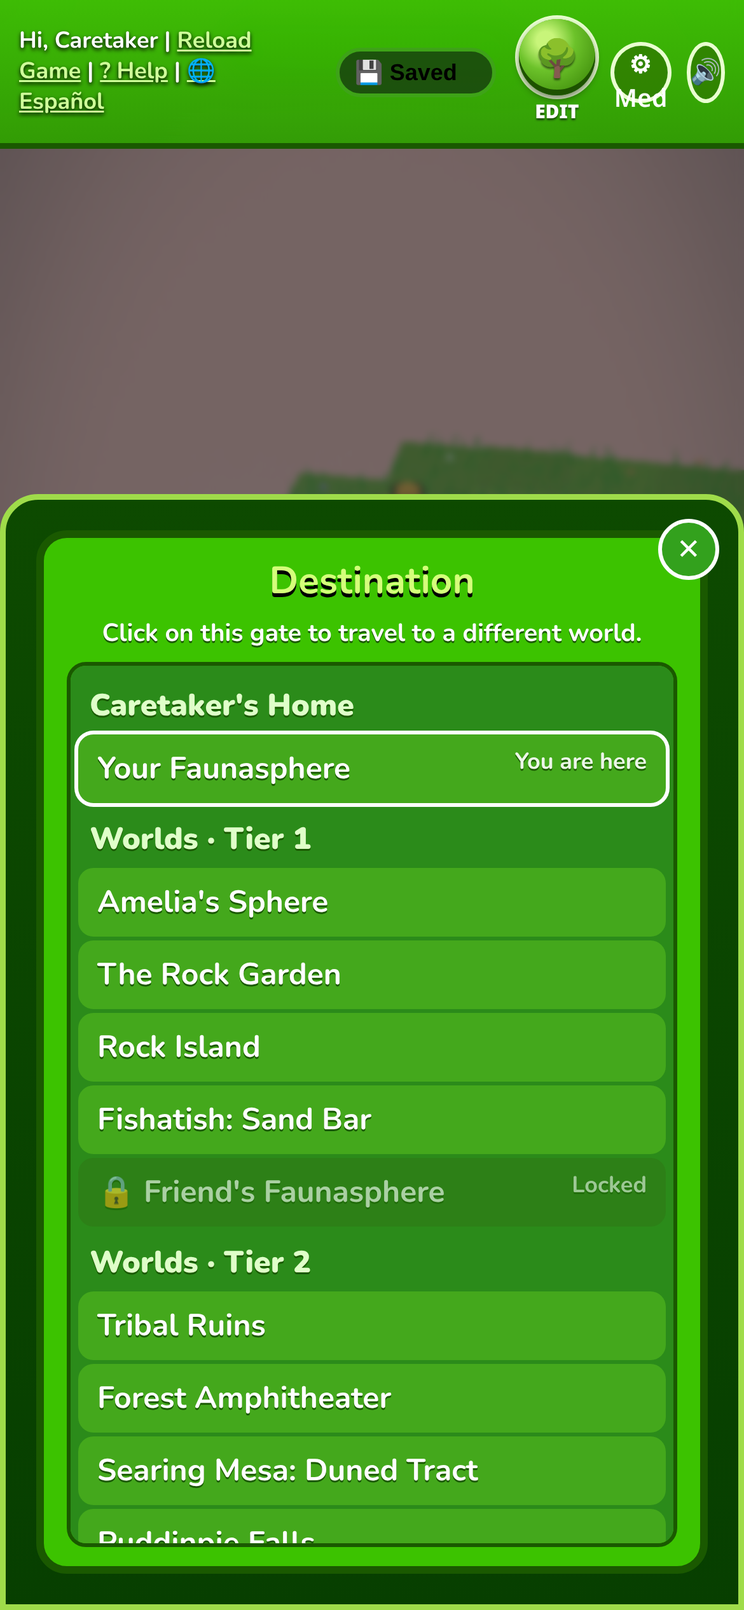
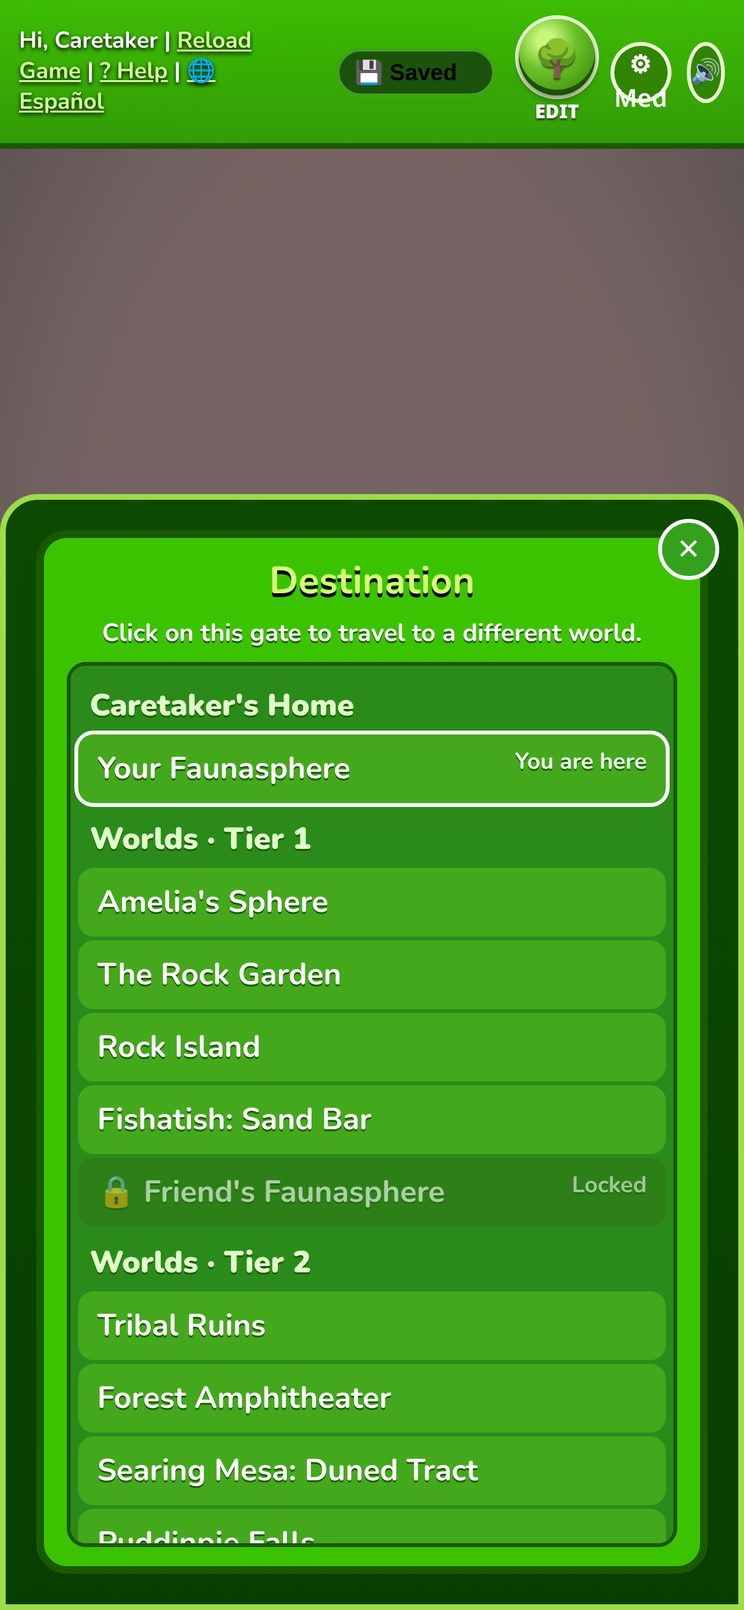
v5: Edit Mode (direct manipulation), 3x home + fences, Tricks/Home HUD, full mobile retest

Changed region(s): [[0.4, 0.2496, 1.0, 0.3432]]

diff --git a/content22.js b/content22.js
@@ -1,0 +1,71 @@
+// v5: direct-manipulation Edit Mode at home (select, drag with snapping ghost, long-press pick-up, pinch/pan camera lock, toolbar, undo x10, clear all, box multi-select)
+(function(){const t=k=>(window.FS&&FS.t)?FS.t(k):k;const A={on:false,sel:[],undo:[],box:false,move:false,ptr:new Map(),g:null};window.FSarr=A;
+const cv=document.getElementById('cv'),stage=document.getElementById('stage');
+const D=()=>S.home.decor,Z0=()=>zs('home');
+const rel=e=>{const r=cv.getBoundingClientRect();return[e.clientX-r.left,e.clientY-r.top]};
+const tileOk=(i,j)=>{const s=Z0();return !!(s.tiles[i]&&s.tiles[i][j])&&!s.objs.some(o=>o.type!=='decor'&&o.i===i&&o.j===j)};
+const at=(i,j)=>D().map((d,k)=>[d,k]).filter(([d])=>d.i===i&&d.j===j).sort((a,b)=>(b[0].h|0)-(a[0].h|0)).map(x=>x[1]);
+const pick=(px,py)=>{const[i,j]=screenToTile(px,py);let l=at(i,j);if(l.length)return l[0];// small tolerance for tall items
+ for(const[a,b]of[[0,-1],[-1,0],[-1,-1]]){l=at(i+a,j+b);if(l.length)return l[0]}return null};
+const snap=()=>JSON.stringify({d:D(),inv:S.player.inv});
+const pushU=()=>{A.undo.push(snap());if(A.undo.length>10)A.undo.shift()};
+const commit=()=>{try{syncHomeDecor();save()}catch(e){console.warn(e)}};
+const undo=()=>{const u=A.undo.pop();if(!u){toast(t('Nothing to undo.'));return}try{const o=JSON.parse(u);S.home.decor.length=0;o.d.forEach(x=>S.home.decor.push(x));S.player.inv=o.inv;A.sel=[];commit();toast(t('Undone.'))}catch(e){console.warn(e)}};
+// compute target placement for moving selection by (di,dj)
+const plan=(di,dj)=>{const mv=new Set(A.sel),out=[];const per={};
+ for(const k of [...A.sel].sort((a,b)=>(D()[a].h|0)-(D()[b].h|0))){const d=D()[k];if(!d)continue;const i=d.i+di,j=d.j+dj,key=i+','+j;
+  let bad=!tileOk(i,j);const others=at(i,j).filter(x=>!mv.has(x)).map(x=>D()[x]);if(others.some(o=>o.item!=='d_block'))bad=true;
+  const base=others.length;per[key]=per[key]||0;const h=base+per[key];if(h>6)bad=true;per[key]++;
+  out.push({k,item:d.item,i,j,rot:d.rot|0,h,col:d.col,v:d.v,bad})}return out};
+const ghosts=p=>{rt.ghosts=p.map(({item,i,j,rot,h,col,v,bad})=>({item,i,j,rot,h,col,v,bad}))};
+const applyPlan=p=>{if(!p.length)return false;if(p.some(x=>x.bad)){toast(t("Can't place there."));return false}pushU();p.forEach(x=>{const d=D()[x.k];d.i=x.i;d.j=x.j;d.h=x.h});commit();try{Sound.sfx('pop')}catch(e){}return true};
+// ---------- UI ----------
+const css=document.createElement('style');css.textContent='#arrbar{position:fixed;left:50%;transform:translateX(-50%);top:96px;z-index:70;display:none;gap:4px;background:#1d4a5ecc;padding:5px;border-radius:14px;box-shadow:0 2px 8px #0007;max-width:98vw;flex-wrap:nowrap;white-space:nowrap;justify-content:center}#arrbar button,#seltb button{font:700 11px inherit;font-family:inherit;border:2px solid #fff;border-radius:10px;background:#3d8b5a;color:#fff;padding:4px 5px;min-width:30px;cursor:pointer}#arrbar button.on{background:#e2a23b}#seltb{position:fixed;z-index:71;display:none;gap:3px;background:#000a;padding:4px;border-radius:12px;flex-wrap:wrap;justify-content:center;max-width:300px}#seltb button{font-size:13px;padding:4px 6px}body.editing #microbox,body.editing #rarepop{display:none!important}#arrbox{position:fixed;z-index:69;border:2px dashed #ffe14d;background:#ffe14d22;pointer-events:none;display:none}';document.head.appendChild(css);
+const bar=document.createElement('div');bar.id='arrbar';document.body.appendChild(bar);const tb=document.createElement('div');tb.id='seltb';document.body.appendChild(tb);const bx=document.createElement('div');bx.id='arrbox';document.body.appendChild(bx);
+const btn=(p,lab,fn,id)=>{const b=document.createElement('button');b.textContent=lab;if(id)b.id=id;b.onclick=e=>{e.stopPropagation();try{fn()}catch(er){console.warn(er)}renderTB()};p.appendChild(b);return b};
+const drawBar=()=>{bar.innerHTML='';btn(bar,'↶ '+t('Undo'),undo,'arrundo');const bb=btn(bar,'⬚ '+t('Box'),()=>{A.box=!A.box;toast(A.box?t('Box select: drag over items to select a group.'):t('Box select off.'));drawBar()},'arrbox_b');if(A.box)bb.className='on';
+ btn(bar,'➕ '+t('Place'),()=>ui('decor'),'arrplace');btn(bar,'☰',()=>ui('edithome'),'arrmenu');btn(bar,'🗑 '+t('Clear'),()=>{if(!D().length)return;if(!confirm(t('Put ALL placed items back into your inventory?')))return;pushU();while(D().length){const d=D().pop();addItem(d.item)}A.sel=[];commit();toast(t('Everything is back in your inventory.'))},'arrclear');btn(bar,'✔ '+t('Done'),()=>setOn(false),'arrdone')};
+const selAct=fn=>{if(!A.sel.length)return;pushU();A.sel.forEach(k=>{const d=D()[k];if(d)fn(d)});commit()};
+const BC=()=>window.BCOL||['#c8a26a','#9aa3ad','#e07a5f','#81b29a','#f2cc8f','#6d6875','#f4f1de','#3d405b'];
+function renderTB(){tb.innerHTML='';if(!A.on||!A.sel.length||A.g&&A.g.drag){tb.style.display='none';return}const one=A.sel.length===1?D()[A.sel[0]]:null;
+ btn(tb,'✥ '+t('Move'),()=>{A.move=true;toast(t('Tap a tile to move it there, or drag it.'))},'tbmove');btn(tb,'↻',()=>selAct(d=>d.rot=((d.rot|0)+1)%4),'tbrot');
+ if(A.sel.some(k=>D()[k]&&D()[k].item.includes('fence')))btn(tb,(one&&(one.rot|0)%2)?'↕':'↔',()=>selAct(d=>{if(d.item.includes('fence'))d.rot=((d.rot|0)%2)?0:1}),'tborient');
+ btn(tb,'▲',()=>selAct(d=>d.h=Math.min(6,(d.h|0)+1)),'tbup');btn(tb,'▼',()=>selAct(d=>d.h=Math.max(0,(d.h|0)-1)),'tbdown');
+ btn(tb,'🎨',()=>selAct(d=>{if(d.item==='d_block'){const c=BC();d.col=c[(c.indexOf(d.col)+1)%c.length]}else d.v=((d.v|0)+1)%8}),'tbcol');
+ if(one&&S.player.inv[one.item]>0)btn(tb,'⧉ '+t('Copy'),()=>{const s=[[1,0],[0,1],[-1,0],[0,-1],[1,1],[-1,-1],[1,-1],[-1,1]];for(const[a,b]of s){const i=one.i+a,j=one.j+b;if(tileOk(i,j)&&!at(i,j).length){pushU();S.player.inv[one.item]--;if(!S.player.inv[one.item])delete S.player.inv[one.item];D().push({...one,i,j,h:0});A.sel=[D().length-1];commit();return}}toast(t('No free tile next to it.'))},'tbdup');
+ btn(tb,'📦 '+t('Store'),()=>{pushU();[...A.sel].sort((a,b)=>b-a).forEach(k=>{const d=D().splice(k,1)[0];if(d)addItem(d.item)});A.sel=[];commit()},'tbstore');btn(tb,'✔',()=>{A.sel=[];A.move=false},'tbok');
+ tb.style.display='flex';posTB()}
+function posTB(){try{if(tb.style.display==='none'||!A.sel.length)return;const d=D()[A.sel[0]];if(!d)return;const r=cv.getBoundingClientRect();const p=projTile(d.i,d.j,(d.h|0)*.3+.9);const w=tb.offsetWidth,h=tb.offsetHeight;let x=r.left+p[0]-w/2,y=r.top+p[1]-h-8;x=Math.max(4,Math.min(innerWidth-w-4,x));const ab=bar.getBoundingClientRect().bottom+6;if(y<ab)y=r.top+p[1]+40;y=Math.max(ab,Math.min(innerHeight-h-230,y));tb.style.left=x+'px';tb.style.top=y+'px'}catch(e){}}
+function setOn(v){A.on=v;A.sel=[];A.move=false;A.box=false;A.g=null;rt.ghosts=null;rt.sel=null;bar.style.display=v?'flex':'none';document.body.classList.toggle('editing',v);window.editCam=v?{x:0,z:0,zoom:1}:null;if(v){drawBar();toast(t('Edit mode: tap an item to select, drag to move, long-press to pick up. Pinch to zoom.'))}renderTB()}
+A.setOn=setOn;
+setInterval(()=>{try{if(A.on&&S.zone!=='home')setOn(false);rt.sel=A.on?A.sel.map(k=>D()[k]).filter(Boolean).map(d=>({i:d.i,j:d.j,h:d.h|0})):null;if(A.on){A.sel=A.sel.filter(k=>D()[k]);posTB()}}catch(e){}},120);
+// EDIT button at home toggles edit mode (menu still reachable from ☰)
+const ed=document.getElementById('edit');if(ed)ed.addEventListener('click',e=>{try{if(S.zone==='home'&&!rt.decor&&rt.paint==null){e.stopImmediatePropagation();e.preventDefault();M.classList.add('hidden');setOn(!A.on)}}catch(er){}},true);
+// ---------- gestures ----------
+const mine=e=>A.on&&!rt.decor&&rt.paint==null&&(e.target===cv||(stage&&stage.contains(e.target)&&e.target.tagName==='CANVAS'));
+const W=(px,py)=>screenToWorld(px,py);
+addEventListener('pointerdown',e=>{if(!mine(e))return;e.stopImmediatePropagation();e.preventDefault();try{cv.setPointerCapture&&cv.setPointerCapture(e.pointerId)}catch(_){}
+ const[px,py]=rel(e);A.ptr.set(e.pointerId,{x:px,y:py});clearTimeout(A.lp);
+ if(A.ptr.size===2){const[a,b]=[...A.ptr.values()];A.g={pinch:1,d0:Math.hypot(a.x-b.x,a.y-b.y)||1,z0:window.editCam.zoom,mx:(a.x+b.x)/2,my:(a.y+b.y)/2};rt.ghosts=null;return}
+ if(A.ptr.size>2)return;const hit=pick(px,py);const[ti,tj]=screenToTile(px,py);A.g={x:px,y:py,lx:px,ly:py,t:Date.now(),hit,ti,tj,moved:false,drag:false,pan:false,boxs:A.box&&hit==null||A.box};
+ if(hit!=null&&!A.box)A.lp=setTimeout(()=>{if(A.g&&!A.g.moved&&!A.g.pinch){if(!A.sel.includes(hit))A.sel=[hit];A.g.drag=true;try{navigator.vibrate&&navigator.vibrate(25)}catch(_){}ghosts(plan(0,0));renderTB()}},450)},true);
+addEventListener('pointermove',e=>{if(!A.on||!A.ptr.has(e.pointerId))return;e.stopImmediatePropagation();e.preventDefault();const[px,py]=rel(e);A.ptr.set(e.pointerId,{x:px,y:py});const g=A.g;if(!g)return;
+ try{if(g.pinch){if(A.ptr.size<2)return;const[a,b]=[...A.ptr.values()];const d=Math.hypot(a.x-b.x,a.y-b.y);window.editCam.zoom=Math.max(.6,Math.min(3,g.z0*d/g.d0));const mx=(a.x+b.x)/2,my=(a.y+b.y)/2;const w0=W(g.mx,g.my),w1=W(mx,my);if(w0&&w1){window.editCam.x+=w0[0]-w1[0];window.editCam.z+=w0[1]-w1[1]}g.mx=mx;g.my=my;clampCam();return}
+ if(!g.moved&&Math.hypot(px-g.x,py-g.y)>9){g.moved=true;clearTimeout(A.lp);if(g.boxs){g.box=true}else if(g.hit!=null&&A.sel.includes(g.hit)){g.drag=true;renderTB()}else g.pan=true}
+ if(g.drag){const[i,j]=screenToTile(px,py);ghosts(plan(i-g.ti,j-g.tj))}
+ else if(g.box){bx.style.display='block';const r=cv.getBoundingClientRect();bx.style.left=r.left+Math.min(px,g.x)+'px';bx.style.top=r.top+Math.min(py,g.y)+'px';bx.style.width=Math.abs(px-g.x)+'px';bx.style.height=Math.abs(py-g.y)+'px'}
+ else if(g.pan){const w0=W(g.lx,g.ly),w1=W(px,py);if(w0&&w1){window.editCam.x+=w0[0]-w1[0];window.editCam.z+=w0[1]-w1[1];clampCam()}}g.lx=px;g.ly=py}catch(er){console.warn(er)}},true);
+function clampCam(){const c=window.editCam,m=8;c.x=Math.max(-m,Math.min(m,c.x));c.z=Math.max(-m,Math.min(m,c.z))}
+const up=e=>{if(!A.ptr.has(e.pointerId))return;e.stopImmediatePropagation();A.ptr.delete(e.pointerId);clearTimeout(A.lp);const g=A.g;if(!g)return;if(g.pinch){if(!A.ptr.size)A.g=null;return}
+ try{const px=g.lx,py=g.ly;
+ if(g.drag){const[i,j]=screenToTile(px,py);applyPlan(plan(i-g.ti,j-g.tj))}
+ else if(g.box){bx.style.display='none';const[a,b]=[screenToTile(g.x,g.y),screenToTile(px,py)];const i0=Math.min(a[0],b[0]),i1=Math.max(a[0],b[0]),j0=Math.min(a[1],b[1]),j1=Math.max(a[1],b[1]);
+  const r=cv.getBoundingClientRect(),x0=Math.min(g.x,px),x1=Math.max(g.x,px),y0=Math.min(g.y,py),y1=Math.max(g.y,py);A.sel=D().map((d,k)=>[d,k]).filter(([d])=>{const p=projTile(d.i,d.j,(d.h|0)*.3);return p[0]>=x0&&p[0]<=x1&&p[1]>=y0&&p[1]<=y1}).map(x=>x[1]);toast(A.sel.length+' '+t('selected'))}
+ else if(!g.moved&&!g.pan){// tap
+  if(A.move&&A.sel.length){const[i,j]=screenToTile(px,py);const d=D()[A.sel[0]];if(applyPlan(plan(i-d.i,j-d.j)))A.move=false}
+  else if(g.hit!=null){if(A.box){const x=A.sel.indexOf(g.hit);if(x<0)A.sel.push(g.hit);else A.sel.splice(x,1)}else A.sel=A.sel.length===1&&A.sel[0]===g.hit?[]:[g.hit];try{Sound.sfx('click')}catch(_){}}
+  else A.sel=[]}
+ }catch(er){console.warn(er)}rt.ghosts=null;A.g=null;renderTB()};
+addEventListener('pointerup',up,true);addEventListener('pointercancel',up,true);
+['click','touchstart','touchmove','wheel'].forEach(ev=>addEventListener(ev,e=>{if(mine(e)){e.stopImmediatePropagation();if(ev!=='touchstart'&&ev!=='click'||ev==='click')try{e.preventDefault()}catch(_){}if(ev==='wheel'){window.editCam.zoom=Math.max(.6,Math.min(3,window.editCam.zoom*(e.deltaY<0?1.1:.9)))}}},{capture:true,passive:false}));
+})();

diff --git a/gl.js b/gl.js
@@ -228,7 +228,10 @@ B.decor=o=>{const it=o.item||'',g=new THREE.Group();
  if(vc!=null&&it!=='d_block'){const c=new THREE.Color(vc);g.traverse(m=>{if(m.isMesh&&m.material&&m.material.color&&!m.material.emissive?.getHex?.()){m.material=m.material.clone();m.material.color.lerp(c,.65)}})}
  const out=new THREE.Group();out.add(g);g.position.y=(o.h|0)*.3;out.rotation.y=((o.rot|0)%4)*Math.PI/2;return out}}
 // v4.22 tile paint layer (S.home.paint {"i,j":"#hex"}): thin slabs, rebuilt only when the paint signature changes
-let paintG=null,paintSig='';let ghostG=null,ghostK='';function ghostFrame(){try{const gh=typeof rt!=='undefined'&&rt.ghost&&S.zone==='home'?rt.ghost:null;const k=gh?JSON.stringify(gh):'';if(k===ghostK)return;ghostK=k;if(ghostG){scene.remove(ghostG);ghostG=null}if(!gh)return;ghostG=B.decor({item:gh.item,rot:gh.rot});ghostG.traverse(m=>{if(m.isMesh){m.material=m.material.clone();m.material.transparent=true;m.material.opacity=.45;m.material.depthWrite=false;m.raycast=()=>{}}});ghostG.position.copy(W2(gh.i,gh.j));scene.add(ghostG)}catch(e){}}
+let paintG=null,paintSig='';let ghostG=null,ghostK='',selG=null,selK='';const selM=new THREE.LineBasicMaterial({color:0xffe14d,depthTest:false,transparent:true});const selGeo=new THREE.EdgesGeometry(new THREE.BoxGeometry(.98,.5,.98));
+function ghostFrame(){try{const on=typeof rt!=='undefined'&&S.zone==='home';const L=on?(rt.ghosts&&rt.ghosts.length?rt.ghosts:(rt.ghost?[rt.ghost]:[])):[];const k=JSON.stringify(L);if(k!==ghostK){ghostK=k;if(ghostG){scene.remove(ghostG);ghostG=null}if(L.length){ghostG=new THREE.Group();for(const gh of L){const m0=B.decor({item:gh.item,rot:gh.rot,h:gh.h,col:gh.col,v:gh.v});m0.traverse(m=>{if(m.isMesh){m.material=m.material.clone();m.material.transparent=true;m.material.opacity=gh.bad?.6:.45;m.material.depthWrite=false;if(gh.bad&&m.material.color){m.material.color.set(0xff3030);if(m.material.emissive)m.material.emissive.set(0x550000)}m.raycast=()=>{}}});m0.position.add(W2(gh.i,gh.j));ghostG.add(m0)}scene.add(ghostG)}}
+ const S2=on&&rt.sel?rt.sel:[];const k2=JSON.stringify(S2);if(k2!==selK){selK=k2;if(selG){scene.remove(selG);selG=null}if(S2.length){selG=new THREE.Group();for(const q of S2){const l=new THREE.LineSegments(selGeo,selM);l.renderOrder=999;l.position.copy(W2(q.i,q.j));l.position.y=(q.h|0)*.3+.25;selG.add(l)}scene.add(selG)}}
+ if(selG)selM.opacity=.6+.4*Math.sin(performance.now()/180)}catch(e){}}
 function paintFrame(){try{const on=typeof S!=='undefined'&&S.zone==='home'&&builtZone==='home';const P=on&&S.home&&S.home.paint||{};const sig=on?JSON.stringify(P)+C0:'';if(sig===paintSig)return;paintSig=sig;if(paintG){scene.remove(paintG);paintG.traverse(m=>{if(m.material)m.material.dispose()})}paintG=new THREE.Group();scene.add(paintG);const mats={};
  for(const k in P){const[i,j]=k.split(',').map(Number);const c=P[k];const m=mats[c]||(mats[c]=std(new THREE.Color(c).getHex(),{roughness:.85}));const sl=mesh(BOX,m,[.98,.02,.98],[0,0,0]);sl.position.copy(W2(i,j));sl.position.y=.012;paintG.add(sl)}}catch(e){}}
 
@@ -435,10 +438,10 @@ let W=1,H=1;function size(){const r=stage.getBoundingClientRect();W=Math.max(1,r
 addEventListener('resize',size);size();
 const fpos=new THREE.Vector3();
 function updCamera(dt,t){const n=N0||9,asp=W/H,fov=camera.fov*Math.PI/180;
- const fit=(n*.55)/Math.tan(fov/2)/Math.min(1.25,Math.max(.55,asp));let dist=fit/(cam.zoom||1);const portrait=asp<.8;if(portrait)dist=Math.min(dist,n*(typeof S!=="undefined"&&S.zone==="home"?2.9:2.1)/(cam.zoom||1));
- const follow=portrait?1:clamp((cam.zoom-1)/.8,0,1);const tgt=new THREE.Vector3().lerpVectors(new THREE.Vector3(0,0,0),fpos,follow);tgt.y=.15;
+ const fit=(n*.55)/Math.tan(fov/2)/Math.min(1.25,Math.max(.55,asp));let dist=fit/(cam.zoom||1);const portrait=asp<.8;if(portrait)dist=Math.min(dist,n*(typeof S!=="undefined"&&S.zone==="home"?4.4:2.1)/(cam.zoom||1));
+ const follow=portrait?1:clamp((cam.zoom-1)/.8,0,1);const tgt=new THREE.Vector3().lerpVectors(new THREE.Vector3(0,0,0),fpos,follow);tgt.y=.15;const EC=G.editCam;if(EC&&S.zone==='home'){tgt.set(EC.x,.15,EC.z);dist=n*3.8/(EC.zoom||1);if(camS.dist!=null){camS.dist=dist;camS.t.copy(tgt)}}
  if(camS.dist===null){camS.dist=dist;camS.t.copy(tgt)}camS.dist+=(dist-camS.dist)*.08;camS.t.lerp(tgt,.06);
- let yaw=camS.yaw,pitch=camS.pitch,d=camS.dist;if(titleOn||!fa()){yaw+=t*.12;d*=1.15;pitch=.55}
+ let yaw=camS.yaw,pitch=camS.pitch,d=camS.dist;if((titleOn||!fa())&&!(G.editCam&&S.zone==="home")){yaw+=t*.12;d*=1.15;pitch=.55}
  const k=Math.cos(pitch)*d;camera.position.set(camS.t.x+Math.sin(yaw)*k,camS.t.y+Math.sin(pitch)*d,camS.t.z+Math.cos(yaw)*k);
  if(rt.shake>.3){camera.position.x+=(Math.random()-.5)*rt.shake*.01;camera.position.y+=(Math.random()-.5)*rt.shake*.01}camera.lookAt(camS.t)}
 // drag-rotate (single pointer)
@@ -449,6 +452,7 @@ addEventListener('pointerup',()=>dragS=null);cv.addEventListener('pointercancel'
 const ray=new THREE.Raycaster(),ndc=new THREE.Vector2(),plane=new THREE.Plane(new THREE.Vector3(0,1,0),0);
 function setRay(px,py){ndc.set(px/W*2-1,-(py/H)*2+1);ray.setFromCamera(ndc,camera)}
 G.screenToTile=(px,py)=>{setRay(px,py);const p=new THREE.Vector3();if(!ray.ray.intersectPlane(plane,p))return[-1,-1];return[Math.round(p.x+C0),Math.round(p.z+C0)]};
+G.screenToWorld=(px,py)=>{setRay(px,py);const p=new THREE.Vector3();if(!ray.ray.intersectPlane(plane,p))return null;return[p.x+C0,p.z+C0]};G.projTile=(i,j,y)=>{const v=W2(i,j);v.y=y||0;return proj(v)};G.camYaw=()=>camS.yaw;G._camDbg=()=>[camera.position.toArray().map(x=>+x.toFixed(2)),camS.t.toArray().map(x=>+x.toFixed(2)),+camS.dist.toFixed(2),camera.fov,camera.aspect.toFixed(3),C0];
 G.hitObj=(px,py)=>{setRay(px,py);const hits=[];for(const[,e]of objMap)if(isClickable(e.o))hits.push(e.hit);const r=ray.intersectObjects(hits,false);return r.length?r[0].object.userData.obj:null};
 const proj=v=>{const p=v.clone().project(camera);return[(p.x*.5+.5)*W,(-p.y*.5+.5)*H,p.z]};
 // test helper: screen position of an object

diff --git a/sw.js b/sw.js
@@ -1,4 +1,4 @@
-const C='fs-v427-1',F=['./','index.html','style.css','data.js','audio.js','art.js','enemydmg.js','game.js','save.js','fshooks.js','zonepal.js','mech.js','content6.js','fun.js','content7.js','unlock.js','content8.js','content9.js','content10.js','content11.js','content12.js','content13.js','content14.js','content15.js','content16.js','content17.js','content18.js','content19.js','content20.js','content21.js','savedb.js','v5.js','net.js','tricks2.js','gift.js','rarity.js','fauna2.js','safety.js','i18n.js','i18n_es.js','vendor/peerjs.min.js','gl.js','vendor/three/three.module.min.js','manifest.json','icon.svg','icon-192.png','icon-512.png','icon-maskable-512.png','apple-touch-icon.png'];
+const C='fs-v5-1',F=['./','index.html','style.css','data.js','audio.js','art.js','enemydmg.js','game.js','save.js','fshooks.js','zonepal.js','mech.js','content6.js','fun.js','content7.js','unlock.js','content8.js','content9.js','content10.js','content11.js','content12.js','content13.js','content14.js','content15.js','content16.js','content17.js','content18.js','content19.js','content20.js','content21.js','content22.js','savedb.js','v5.js','net.js','tricks2.js','gift.js','rarity.js','fauna2.js','safety.js','i18n.js','i18n_es.js','vendor/peerjs.min.js','gl.js','vendor/three/three.module.min.js','manifest.json','icon.svg','icon-192.png','icon-512.png','icon-maskable-512.png','apple-touch-icon.png'];
 self.addEventListener('install',e=>{self.skipWaiting();e.waitUntil(caches.open(C).then(c=>c.addAll(F)).catch(()=>{}))});
 self.addEventListener('activate',e=>e.waitUntil(caches.keys().then(k=>Promise.all(k.filter(x=>x!==C).map(x=>caches.delete(x)))).then(()=>self.clients.claim())));
 // network-first so deploys show up immediately; cache fallback offline

diff --git a/index.html b/index.html
@@ -34,6 +34,7 @@
 <script src="content19.js"></script>
 <script src="content20.js"></script>
 <script src="content21.js"></script>
+<script src="content22.js"></script>
 <script src="unlock.js"></script><script src="vendor/peerjs.min.js"></script><script src="vendor/nostr.bundle.js"></script><script src="net.js"></script><script src="safety.js"></script><script src="tricks2.js"></script><script src="gift.js"></script><script src="fauna2.js"></script><script src="rarity.js"></script>
 <script type="importmap">{"imports":{"three":"./vendor/three/three.module.min.js"}}</script>
 <script type="module" src="gl.js"></script><script>(function(){const tips=["Take a luxurious spa vacation in the magical mud of the Rejuvenating Marsh. Relax, restore, and turn mud into beauty!","Earning Lux fills your Egg Meter. Fill it up to level up and lay an egg!","Each species has its own gathering ability. Hoofers kick trees, Sniffers lift rocks, Scooters dive.","Ripe things glow green. Red means not yet, or not for this fauna.","Your zapper collar glows brighter as your fauna levels up."],st=["Signing in…","Loading resources…","Processing resources…","Waiting for world…"];const t=document.getElementById('ltip');if(t)t.textContent='Tip: '+tips[Math.floor(Math.random()*tips.length)];let k=0;const iv=setInterval(()=>{const s=document.getElementById('lstat'),p=document.getElementById('lprog');if(!s){clearInterval(iv);return}k++;s.textContent=st[Math.min(3,k>>1)];p.style.width=Math.min(95,k*12)+'%'},250)})()</script>

diff --git a/RELEASES.md b/RELEASES.md
@@ -49,3 +49,20 @@
 - 2026-10-25 3:50 PM EDT — v4.24.3 hotfix: trick/dance animations now actually play on YOUR fauna. Root cause: gl.js read `window.rt`, but rt is a script-level const (never on window), so the local fauna never saw rt.trick (only remote players animated). Fixed; plus big whole-body motion (hops up to ~1 body height, full spins, side-steps, moonwalk slide, lying down for sleep) and camera eases in while performing. SW cache bumped.
 - 2026-10-25 3:58 PM EDT — v4.24.4: 🎁 Give a fauna to a friend in your room (gift.js). Fauna list shows '🎁 Give to friend' when friends are in the room; pick player → confirm → recipient gets Accept/Decline popup (name, species, level). Safe handshake: offer with unique gift ID + full fauna data (retried, deduped by ID) → recipient adds with a new local ID only if <10 fauna, saves, acks → only then sender removes and saves. Timeout/disconnect/decline/full = nothing changes. Can't give last or active fauna. ES translations. SW cache bumped.
 - 2026-10-25 4:18 PM EDT — v4.26: hatch rarity tiers (Common 60/Uncommon 25/Rare 10/Epic 4/Legendary 1). Tier looks: Uncommon two-tone, Rare gradient fur, Epic glow+sparkles, Legendary exclusive shiny palette (iridescent+sparkles). Tier hatch: stronger egg shake, colored burst, tier banner, original tier jingle. Rarity badge in Your Fauna, certificate, tap-to-name (EN/ES). Old fauna = Common. rarity.js. SW cache fs-v426-1.
+
+## v5 (2026-10-25, ~5 PM ET) — summary
+Rollup of everything from v4.15 to v4.24, retested in full on the live site in mobile mode (390x844, touch):
+- **World Gate / travel:** no more freezes (lightweight fade, 2.5 s hard timeout, map fallback). Live test: the gate menu has 22 destinations and travel to Rock Garden completes.
+- **Sphere Store pad, traits, Friend Gate, logo colors** (v4.19–v4.18.1).
+- **Home customization:** fixed decor placement from the Lux Store; Edit Home with move, rotate, store, 8 tint variants, stackable blocks (4 high), tile painting with a 16-color grid, ground themes (v4.20–v4.22).
+- **Roaming idle fauna** at home; tap one for a name card and "Switch to this fauna" (v4.21).
+- **App name FaunaMySphere and new icons**; title screen reverted to its classic look (v4.22/v4.22.1).
+- **Save reliability** (v4.22.2, other worker): autosave, IndexedDB restore, rolling backups.
+- **Home island 3x bigger** with safe old-save migration (verified live: 67 → 193 tiles, decor/paint/objects preserved, survives reload) (v4.23).
+- **Fence orientation** ↔/↕ with preview, saved per fence, auto-connecting runs (v4.24).
+- **Tricks wheel is easier to find:** a pink '🎪 Tricks' badge ('🎪 Trucos' in Spanish) sits under the portrait and opens the wheel; the portrait pulses gently until the wheel is opened for the first time (remembered in the save).
+- **🏠 Home button** ('🏠 Casa' in Spanish) in the top bar: one tap travels home from any zone using the safe travel path (2.5 s fallback); hidden when you're already home.
+- **New Edit Mode (tap EDIT at home):** tap an item to select it (yellow outline + floating toolbar: Move, ↻, ↔/↕ for fences, ▲/▼ layer, 🎨 color, ⧉ Copy when you own a spare, 📦 Store, ✔). Drag to move with a live snapping ghost (red = can't place), long-press to pick up, works on stacked blocks; pinch to zoom and one-finger pan with the camera locked; Undo (last 10), Clear (all back to inventory, with confirm), ⬚ Box multi-select to move groups; ➕ Place / ☰ menu keep the old Place, Shop and Paint screens. Everything saves; old saves work unchanged.
+- **Live EN/ES toggle** works both ways; **2-player multiplayer** verified live (room created and joined, both online, 1 peer each). No page errors.
+
+Screenshots: screenshots/v5_home_mobile.png, v5_travel_mobile.png, v5_destination_mobile.png, v5_store_mobile.png, v5_edithome_mobile.png, v5_homecustom_mobile.png, v5_roam_mobile.png, v5_migrated_live_mobile.png, v5_fence_preview_mobile.png, v5_fences_mobile.png, v5_lang_es_mobile.png, v5_mp_host_mobile.png, v5_mp_guest_mobile.png, v5_title_mobile.png, v5_tricks_badge_mobile.png, v5_tricks_wheel_mobile.png, v5_home_button_mobile.png, v5_edit_mode_mobile.png, v5_edit_select_mobile.png, v5_edit_drag_mobile.png, v5_edit_invalid_mobile.png, v5_edit_box_mobile.png.

diff --git a/BACKLOG.md b/BACKLOG.md
@@ -211,3 +211,5 @@ These are items from VIDEO_NOTES_1/2/3 that we deferred so v4 could ship. Detail
 - VERTICALITY (Leo, 2:09 PM): hills + raised block terrain at several heights, climbable via walkable ramps/steps; pathing + jump arc height-aware; camera follows height. Keep separate top/side colors (VIDEO_NOTES_20). More original-style plants, rocks, props, landmarks per zone from the video notes. Watch phone perf.
 - DIVERSE/DETAILED worlds (Leo, 2:14 PM): each zone distinct — own terrain shapes, props, plants, critters, landmarks, ambient effects, from the video notes.
 - Enemy damage +25% (Leo, 2:14 PM): single constant ENEMY_DMG_MULT=1.25 applied to every vile/Gassy damage value in one place.
+- v6 world size (Leo, 3:26 PM ET): 5x is a TARGET, not a must — smooth phone performance wins. Scale up gradually (2x → 3x → 4x → 5x); at each step test in mobile emulation with 4x CPU throttling (Chrome DevTools/CDP Emulation.setCPUThrottlingRate=4) and require smooth frame rate with no long stalls (no long tasks / zone loads freezing input). Stop at the largest size that passes and record the chosen size here: **chosen size: TBD**.
+- v6 part 1 — REALISTIC WORLDS (Leo, 3:51 PM ET; start right after v5/v5.1). Target look = approved fauna concept (store attachment b870a1ec…jpg): floating grassy island, lush grass + wildflowers, rocky brown soil sides, soft blue sky with fluffy clouds, hazy distant mountains. Build (phone-friendly): textured grass tops + instanced grass tufts/flowers near camera; noisy rock/soil side textures; gradient sky + soft cloud sprites + distant mountain backdrop; soft directional light, shadows, fog/haze; water with subtle shine; thinner/less outlines on the world; per-zone identity/palette kept (sand, snow, swamp…) but realistic. Add 'Graphics: High/Low' setting (Low auto-default on slow phones). Measure frame time in mobile emulation with 4x CPU throttle. Ship zone by zone (home + Rock Garden first) with before/after screenshots. Combine with v6 bigger worlds + verticality where sensible.
